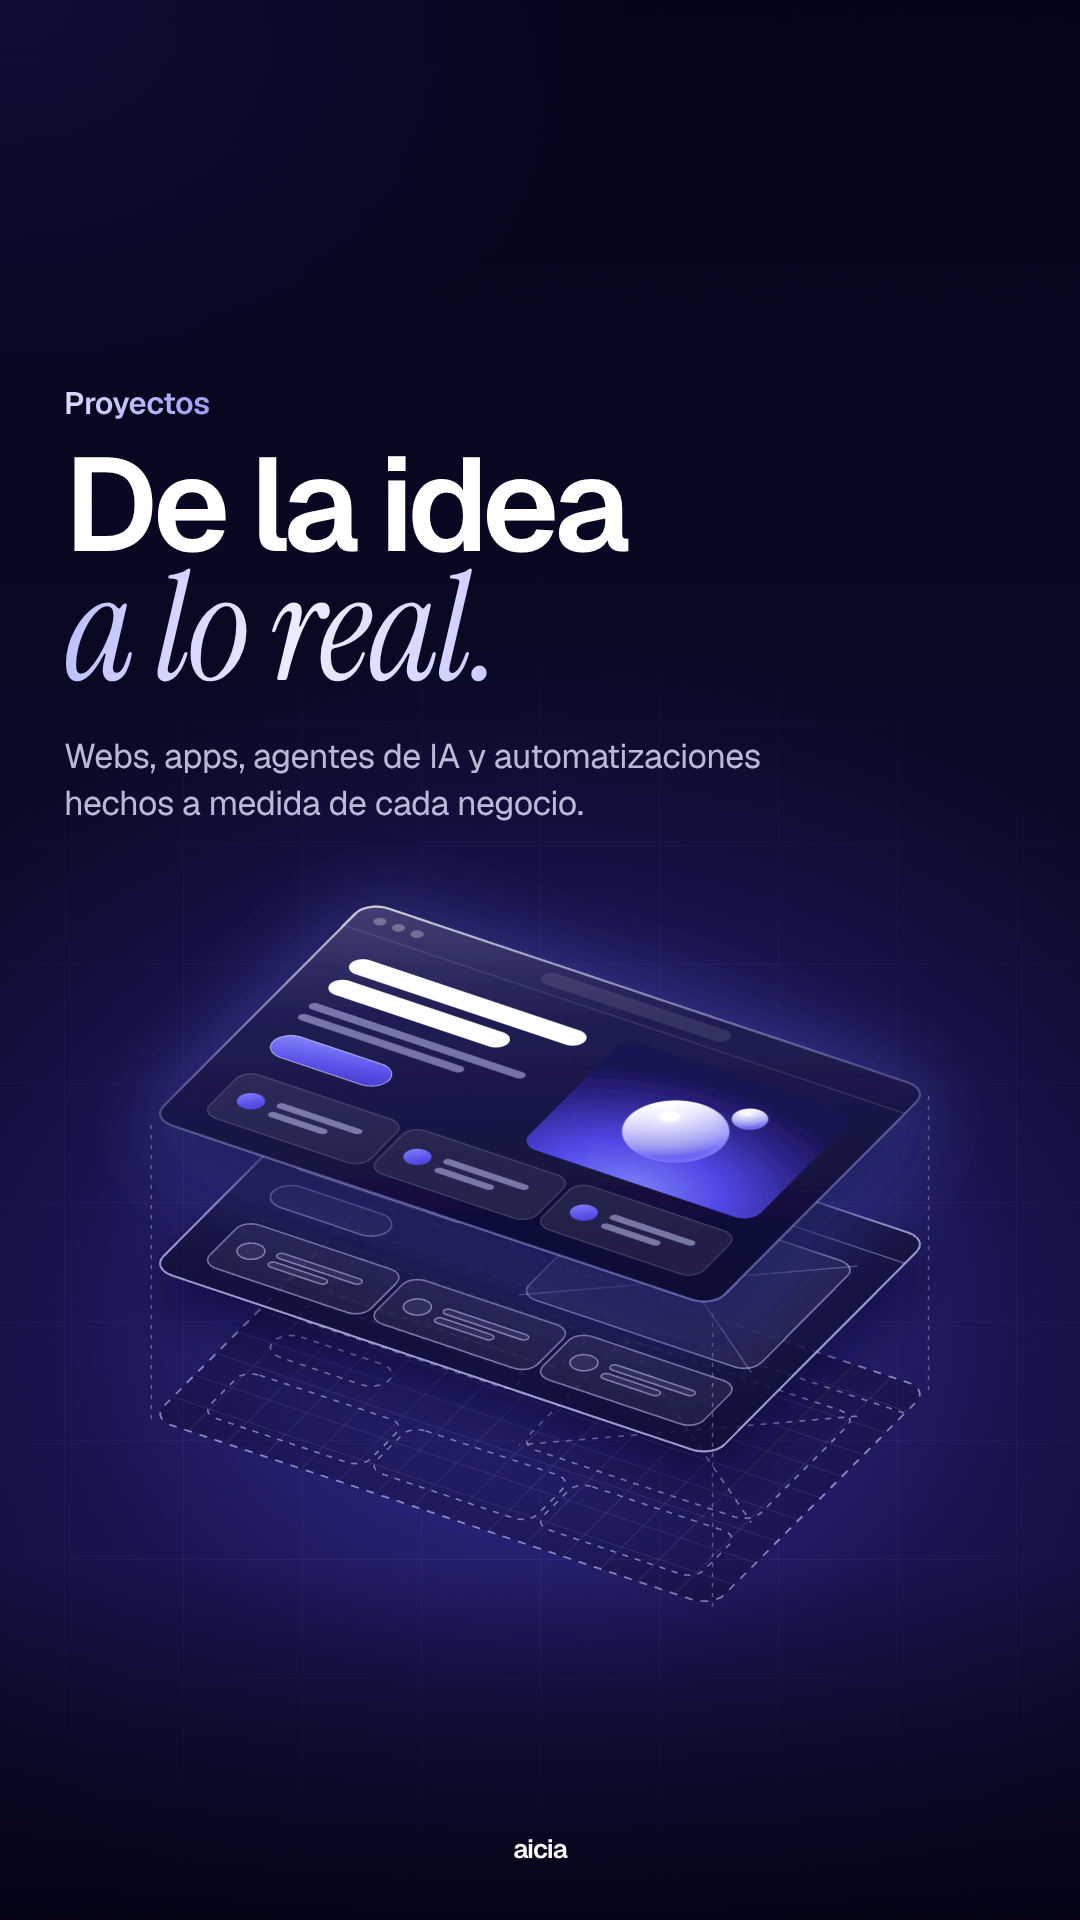
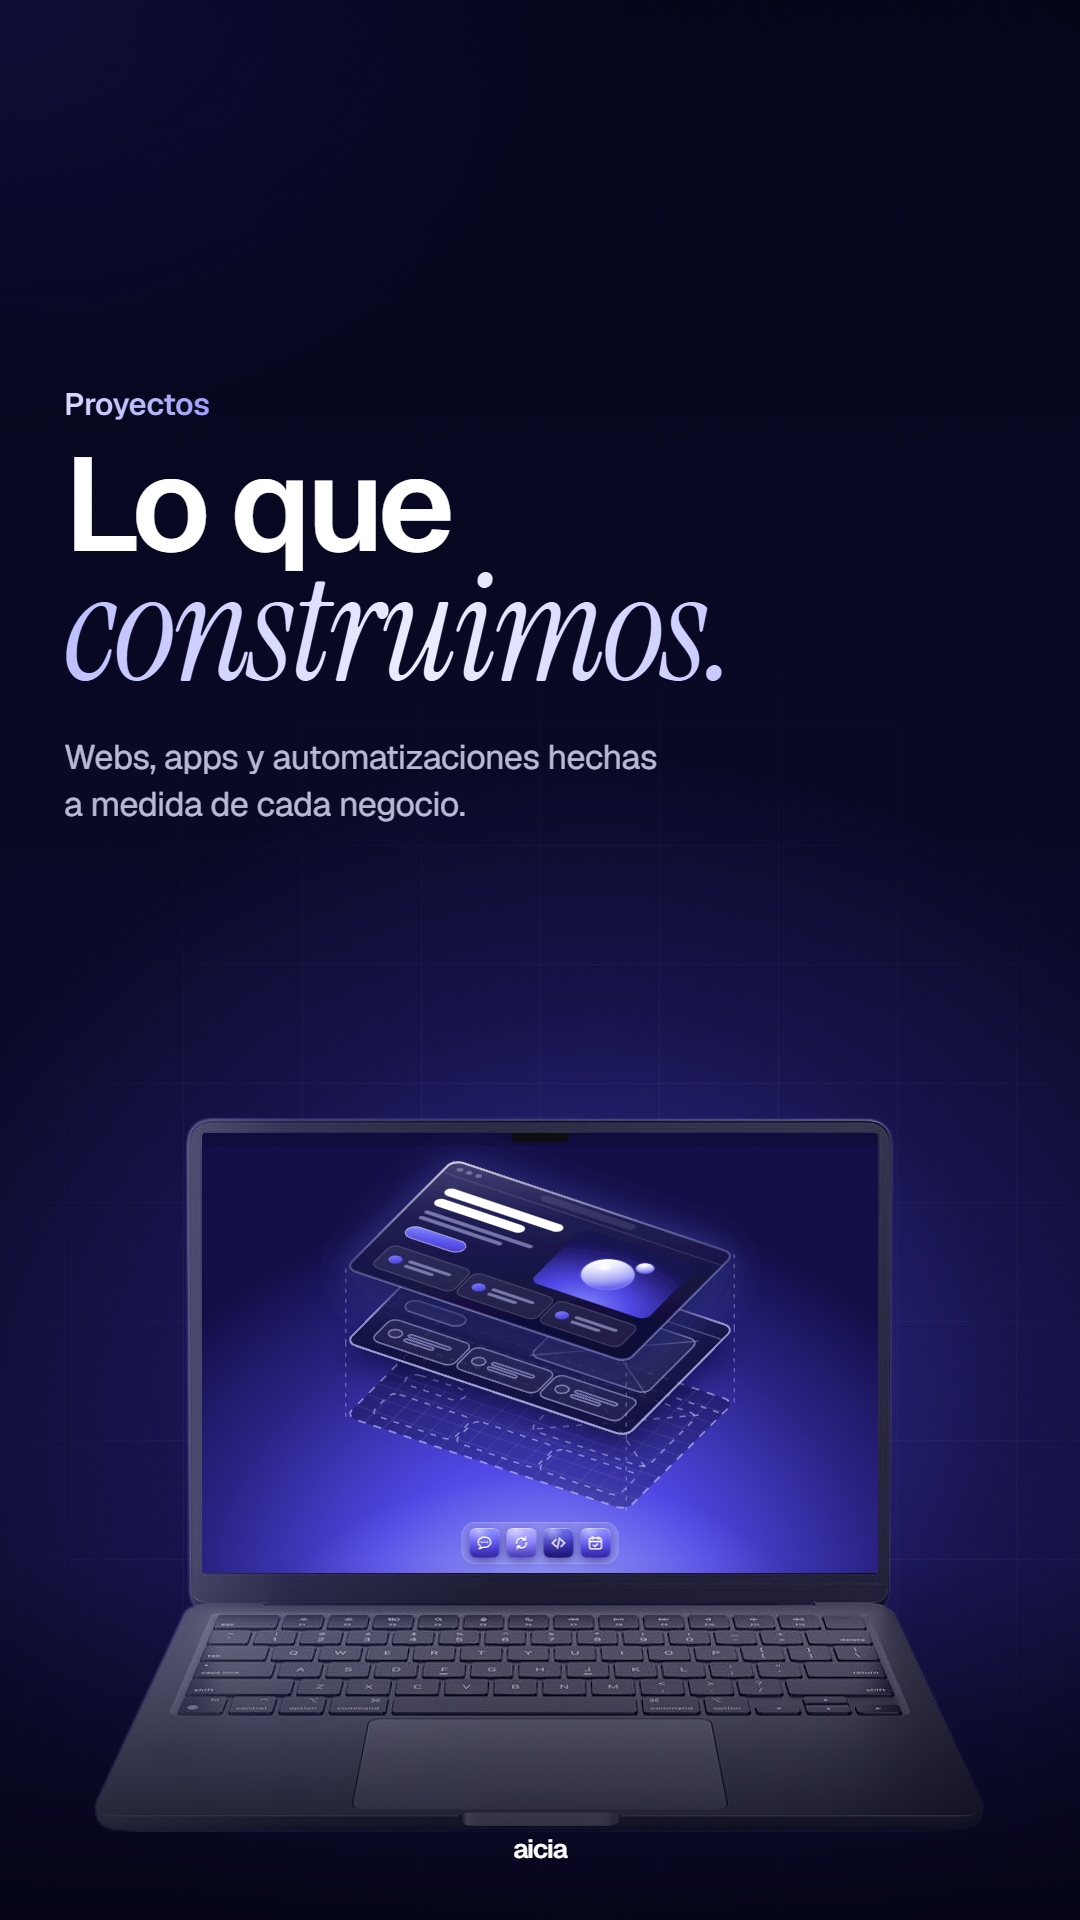
Proyectos: portada con la MacBook y la vista explotada dentro de la pantalla

Changed region(s): [[0.0611, 0.2188, 0.8861, 0.9688], [0.0917, 0.1875, 0.1528, 0.25]]

diff --git a/historias/clientes-proyectos/historias.html b/historias/clientes-proyectos/historias.html
@@ -239,9 +239,15 @@ svg.app .gl .f{fill:#fff;stroke:none}
 .card .pill .lg-i{width:34px;height:34px;margin-left:-6px;flex:none}
 .card .pill b{font-weight:600;background:linear-gradient(90deg,#E4E5FF,#B9BBFF);-webkit-background-clip:text;background-clip:text;-webkit-text-fill-color:transparent}
 
-/* Proyectos: vista explotada (boceto → diseño → producto) */
-.p1{--gx:50%;--gy:68%;--gw:1150px;--gh:950px;--mw:1000px;--mh:1000px}
-.p1 .build{left:0;top:0;z-index:3;pointer-events:none;overflow:visible}
+/* MacBook con fondo de pantalla */
+.mac-screen{z-index:3;overflow:hidden;border-radius:3px 3px 0 0;background:radial-gradient(70% 90% at 50% 105%,#7B7EF8 0%,#4F46E5 35%,#2A2384 70%,#120F45 100%)}
+.mac-screen::before{content:"";position:absolute;inset:0;background:radial-gradient(60% 60% at 50% 120%,rgba(199,201,255,.55),transparent 70%)}
+.mac-screen img{position:absolute;left:50%;top:50%;width:150px;transform:translate(-50%,-52%);filter:drop-shadow(0 12px 24px rgba(10,6,60,.6))}
+.mac-screen .notch{position:absolute;left:50%;top:0;width:58px;height:9px;margin-left:-29px;background:#0E0E12;border-radius:0 0 6px 6px;z-index:2}
+.mac-screen .bar{position:absolute;left:0;right:0;top:0;height:13px;background:rgba(10,8,40,.35);backdrop-filter:blur(6px)}
+.mac-screen .dock{position:absolute;left:50%;bottom:9px;transform:translateX(-50%);display:flex;gap:7px;padding:6px 8px;border-radius:14px;background:rgba(255,255,255,.14);backdrop-filter:blur(10px);box-shadow:inset 0 0 0 .5px rgba(255,255,255,.3)}
+.mac-screen .dock svg.app{width:30px;height:30px;filter:drop-shadow(0 3px 5px rgba(10,8,70,.45))}
+.mac-screen .build{position:absolute;left:0;top:0;width:100%;height:100%;overflow:visible}
 
 /* Portadas de destacadas (círculo) */
 .cover{--gx:50%;--gy:50%;--gw:1000px;--gh:1000px}
@@ -380,10 +386,20 @@ svg.app .gl .f{fill:#fff;stroke:none}
 <!-- ======================= PROYECTOS · PORTADA ======================= -->
 <section class="story p1" data-file="aicia-proyectos-01-portada.png">
   <div class="stage"></div><div class="grid"></div>
-  <svg class="build" id="build" viewBox="0 0 1080 1920" width="1080" height="1920" aria-hidden="true"></svg>
+  <div class="subj" data-src="assets/macbook.png" data-rim="left" style="left:94px;top:940px;width:892px;--tint:.18;--rim:.45"></div>
+  <div class="mac-screen" style="left:201.5px;top:1132.5px;width:676px;height:440px">
+    <div class="bar"></div><div class="notch"></div>
+    <svg class="build" id="build" viewBox="0 0 676 440" aria-hidden="true"></svg>
+    <div class="dock">
+      <svg class="app" viewBox="0 0 100 100" data-g="g-ai" data-s="ap-indigo"></svg>
+      <svg class="app" viewBox="0 0 100 100" data-g="g-flow" data-s="ap-light"></svg>
+      <svg class="app" viewBox="0 0 100 100" data-g="g-code" data-s="ap-deep"></svg>
+      <svg class="app" viewBox="0 0 100 100" data-g="g-cal" data-s="ap-indigo"></svg>
+    </div>
+  </div>
   <div class="eyebrow tx">Proyectos</div>
-  <h1 class="title tx">De la idea<br><span class="serif">a lo real.</span></h1>
-  <p class="lede tx">Webs, apps, agentes de IA y automatizaciones<br>hechos a medida de cada negocio.</p>
+  <h1 class="title tx">Lo que<br><span class="serif">construimos.</span></h1>
+  <p class="lede tx">Webs, apps y automatizaciones hechas<br>a medida de cada negocio.</p>
   <div class="vignette"></div><div class="grain"></div>
   <div class="basefade"></div><div class="sig">aicia</div>
 </section>
@@ -565,9 +581,10 @@ function renderSpheres(theme, size, vb, show) {
 /* ---------- Proyectos: capas en proyección axonométrica ---------- */
 function buildStack(sphUrl) {
   const svg = document.getElementById('build'); if (!svg) return;
-  const W = 600, D = 400, th = 30 * Math.PI / 180, k = .58, sc = 1.08;
+  // Dentro de la pantalla de la MacBook (viewBox 676×440): escala reducida; sombras proporcionales
+  const W = 600, D = 400, th = 30 * Math.PI / 180, k = .58, sc = .54, f = sc / 1.08;
   const a = sc * Math.cos(th), b = sc * Math.sin(th) * k, c = -sc * Math.sin(th), d = sc * Math.cos(th) * k;
-  const cx = 540, top = 1104, gap = 150;
+  const cx = 338, top = 128, gap = 74;
   const P = (x, y, z) => [cx + a * (x - W / 2) + c * (y - D / 2), top + b * (x - W / 2) + d * (y - D / 2) - z + 2 * gap];
   const M = z => `translate(${cx} ${top - z + 2 * gap}) matrix(${a} ${b} ${c} ${d} 0 0) translate(${-W / 2} ${-D / 2})`;
   const ns = 'vector-effect="non-scaling-stroke"';
@@ -633,8 +650,8 @@ function buildStack(sphUrl) {
       <linearGradient id="pj-rim" x1="0" y1="0" x2="1" y2="1"><stop offset="0" stop-color="#fff" stop-opacity=".75"/><stop offset=".45" stop-color="#C7C9FF" stop-opacity=".25"/><stop offset="1" stop-color="#9A9BFA" stop-opacity=".45"/></linearGradient>
       <linearGradient id="pj-btn" x1="0" y1="0" x2="1" y2="1"><stop offset="0" stop-color="#8487FA"/><stop offset=".55" stop-color="#5B54EC"/><stop offset="1" stop-color="#4338CA"/></linearGradient>
       <radialGradient id="pj-hero" cx=".5" cy="1.05" r=".95"><stop offset="0" stop-color="#7B7EF8"/><stop offset=".38" stop-color="#4F46E5"/><stop offset=".75" stop-color="#2A2384"/><stop offset="1" stop-color="#16124F"/></radialGradient>
-      <filter id="pj-sh" x="-30%" y="-30%" width="160%" height="170%"><feDropShadow dx="0" dy="30" stdDeviation="24" flood-color="#03021A" flood-opacity=".6"/></filter>
-      <filter id="pj-glow" x="-40%" y="-40%" width="180%" height="190%"><feDropShadow dx="0" dy="36" stdDeviation="30" flood-color="#03021A" flood-opacity=".7"/><feDropShadow dx="0" dy="0" stdDeviation="40" flood-color="#6366F1" flood-opacity=".35"/></filter>
+      <filter id="pj-sh" x="-30%" y="-30%" width="160%" height="170%"><feDropShadow dx="0" dy="${30 * f}" stdDeviation="${24 * f}" flood-color="#03021A" flood-opacity=".6"/></filter>
+      <filter id="pj-glow" x="-40%" y="-40%" width="180%" height="190%"><feDropShadow dx="0" dy="${36 * f}" stdDeviation="${30 * f}" flood-color="#03021A" flood-opacity=".7"/><feDropShadow dx="0" dy="0" stdDeviation="${40 * f}" flood-color="#6366F1" flood-opacity=".35"/></filter>
     </defs>
     ${L1}
     <g ${gst}>${guide(0, gap)}</g>

diff --git a/CLAUDE.md b/CLAUDE.md
@@ -18,7 +18,7 @@ Hay 3 destacadas, como máximo: **Aicia**, **Clientes** y **Proyectos**.
 | Carpeta | Qué es | Estado |
 |---|---|---|
 | `historias/destacada-aicia/` | 5 historias "¿Qué es Aicia?" (`destacada.html`) | **Final, aprobada** |
-| `historias/clientes-proyectos/` | Portada de Clientes + 5 tarjetas de clientes + 2 de Proyectos (`historias.html`) | Clientes **final**. Portada de Proyectos **nueva, a revisar**. Tarjeta de Proyectos pendiente |
+| `historias/clientes-proyectos/` | Portada de Clientes + 5 tarjetas de clientes + 2 de Proyectos (`historias.html`) | Clientes **final**. Portada de Proyectos **final**. Historias de proyecto pendientes |
 | `historias/portadas-destacadas/` | Íconos de portada de las 3 destacadas (`portadas.html`) | **Final, aprobada** |
 | `historias/que-es-aicia/` | 6 versiones viejas | No se usan, son solo referencia |
 
@@ -82,5 +82,5 @@ node portadas-destacadas/render.mjs    # portadas 2160×2160
 - El logo de AeroSport es de baja resolución. Si Guille consigue uno más grande, reemplazarlo.
 
 ### Pendiente
-- **Proyectos**: portada nueva "De la idea *a lo real.*" con vista explotada en 3 capas (boceto punteado → diseño → producto final), hecha en SVG por `buildStack()` en `historias.html`. El resto de la destacada Guille la quiere "diferente": esperar su idea antes de diseñar. La tarjeta Bs.As. Top (web) sigue como placeholder.
+- **Proyectos**: portada final "Lo que *construimos.*": MacBook (`assets/macbook.png`) con la vista explotada en 3 capas (boceto → diseño → producto) dentro de la pantalla, hecha en SVG por `buildStack()` en `historias.html` (escala `sc .54`, `gap 74`). Sin esferas en el centro, se mantiene el dock. Próximo: historias de cada proyecto con el logo del cliente chico arriba y la página/app mostrada. La tarjeta Bs.As. Top (web) sigue como placeholder.
 - Opcional: video de demo de un proyecto si Guille pasa grabaciones de pantalla.
